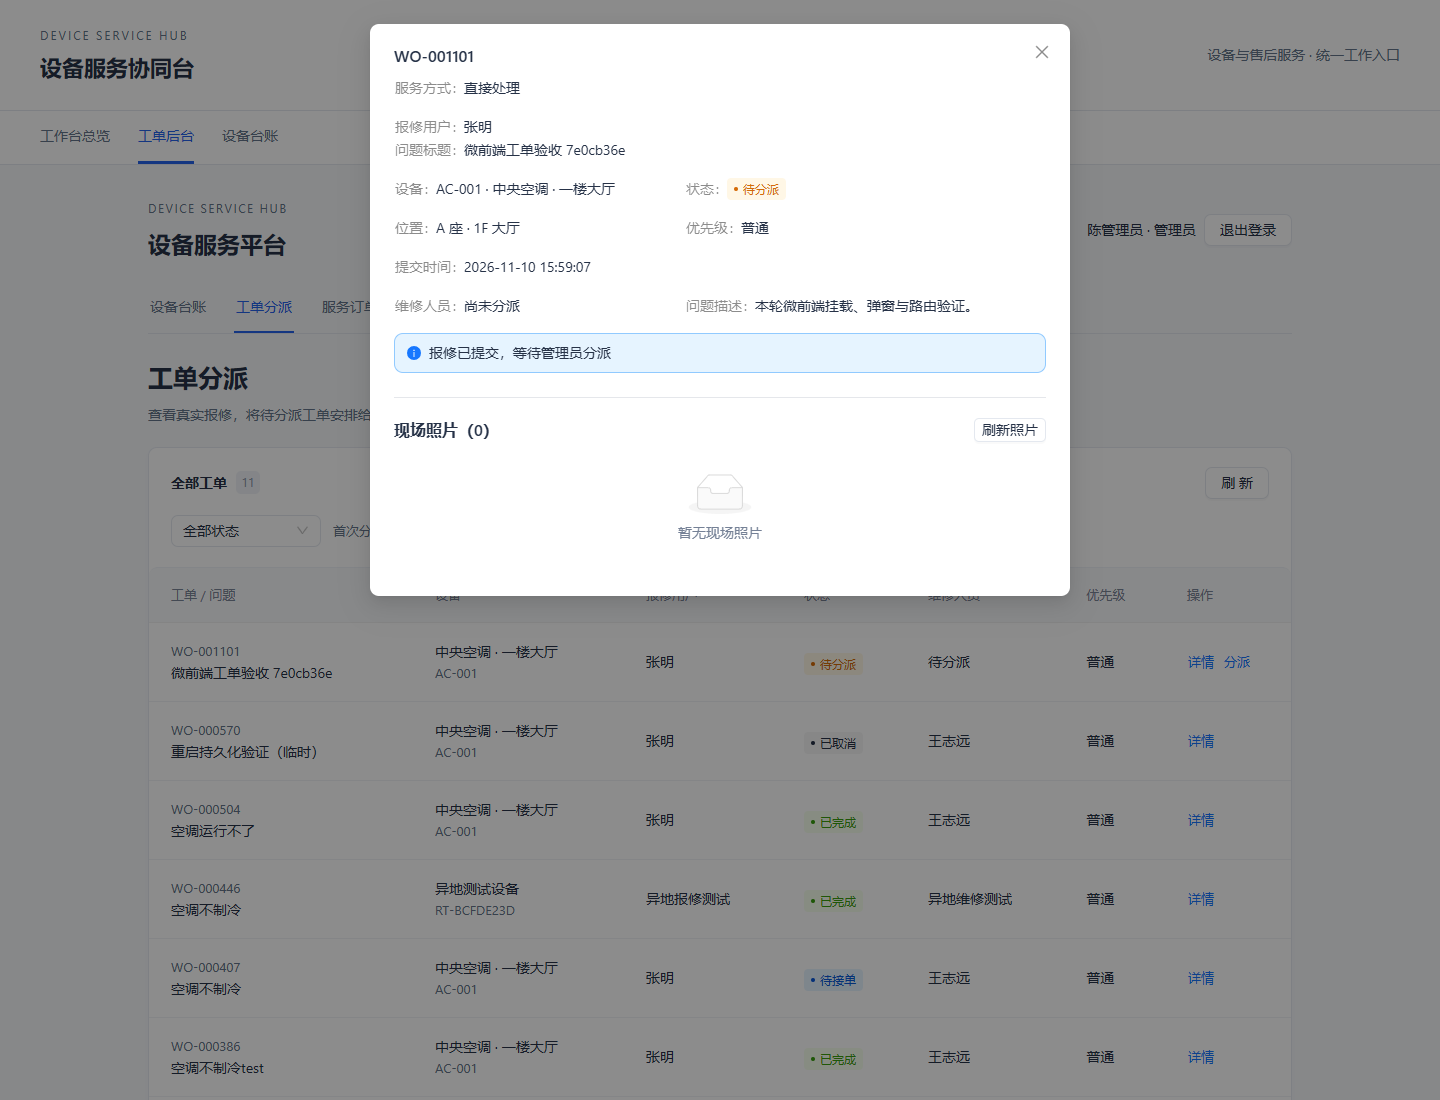
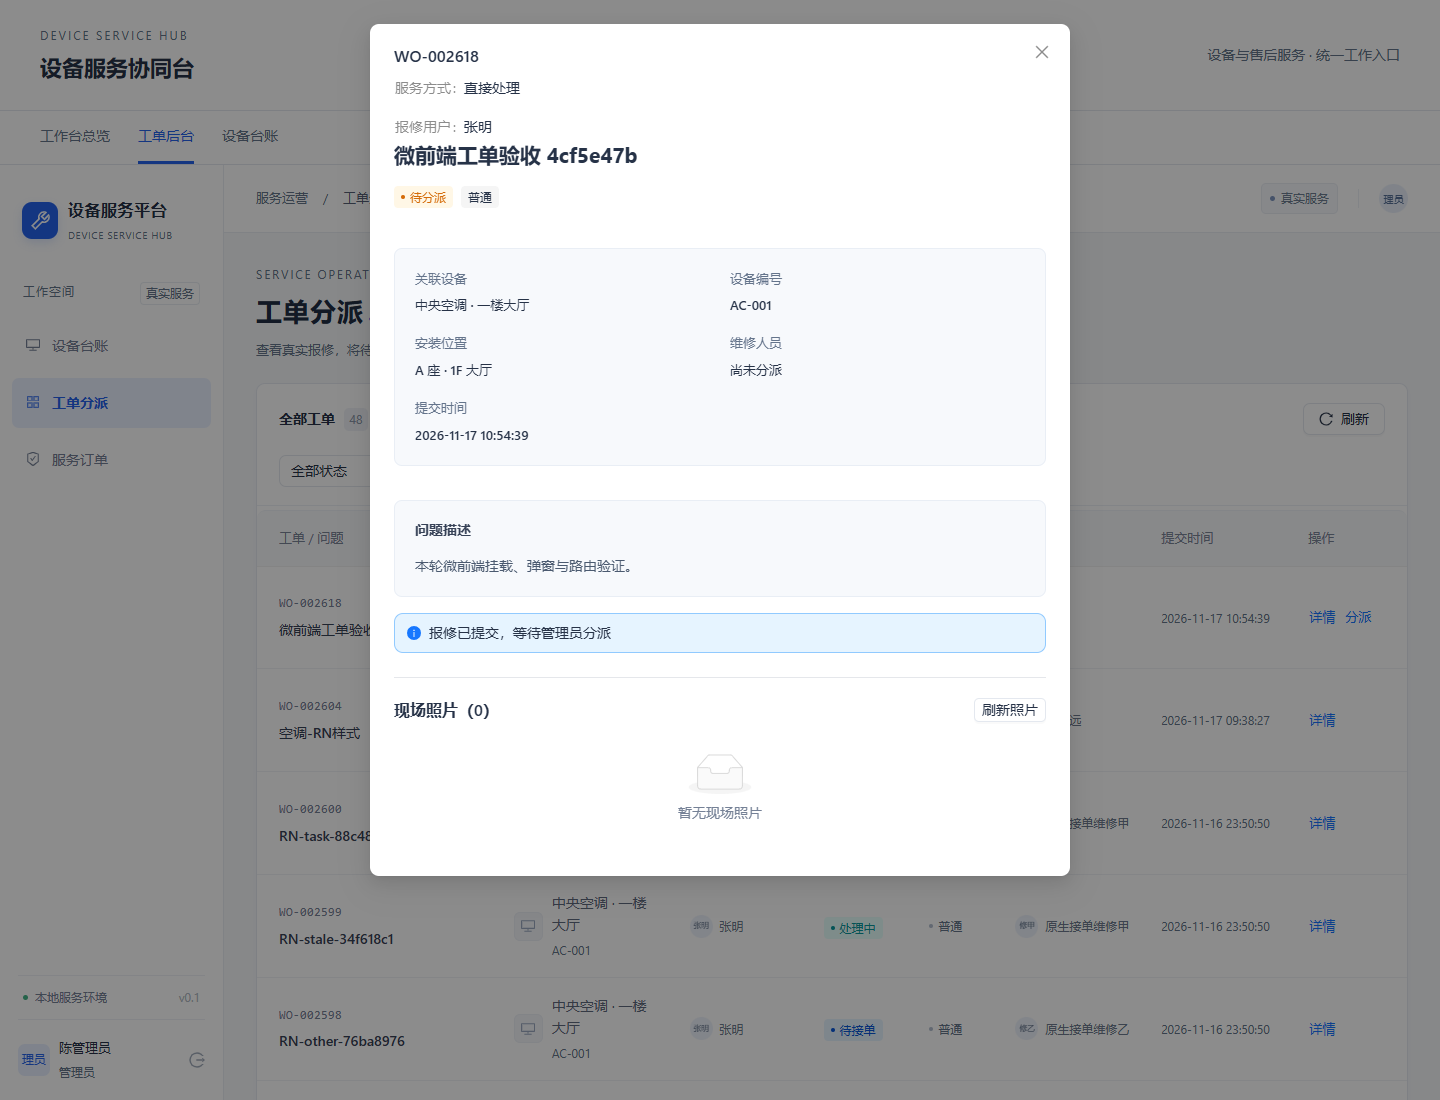
docs: 优化设备工单平台面试导览与截图展示
- 调整为功能与技术实现介绍，精简更新汇报式表述
- 更新界面截图引用，补充跨端与窄屏展示
- 修复 RN 图片标签显示为文字的问题
- 保留测试环境与项目范围说明

diff --git a/apps/web/src/layouts/layout.module.css b/apps/web/src/layouts/layout.module.css
@@ -781,3 +781,24 @@
     gap: 8px;
   }
 }
+
+/* Embedded layouts stay inside the shell's scroll region. */
+:global([data-micro-application="tickets"]) .app-shell {
+  min-height: var(--micro-viewport-height, 100dvh);
+  overflow: visible;
+  align-items: flex-start;
+}
+
+:global([data-micro-application="tickets"]) .sidebar {
+  position: sticky;
+  top: 0;
+  bottom: auto;
+  height: var(--micro-viewport-height, 100dvh);
+  flex-shrink: 0;
+}
+
+:global([data-micro-application="tickets"]) .main-shell {
+  margin-left: 0;
+  flex: 1;
+  width: 0;
+}

diff --git a/apps/web/src/micro.ts b/apps/web/src/micro.ts
@@ -19,6 +19,7 @@ export async function mount({
   );
   if (!root || instances.has(root))
     throw new Error("Invalid ticket application container");
+  root.dataset.microApplication = "tickets";
   instances.set(root, createApplication(root, basePath));
 }
 
@@ -29,4 +30,5 @@ export async function unmount({ container }: MicroProps): Promise<void> {
   if (!root) return;
   instances.get(root)?.();
   instances.delete(root);
+  delete root.dataset.microApplication;
 }
